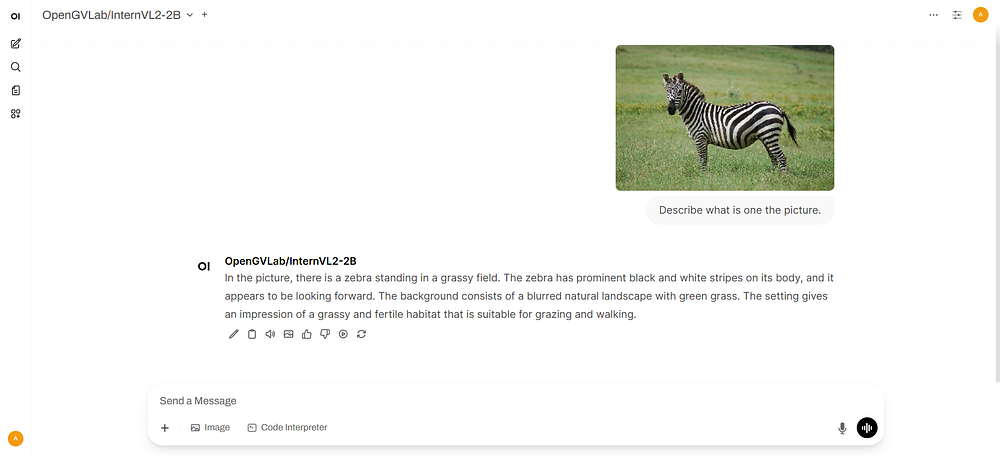
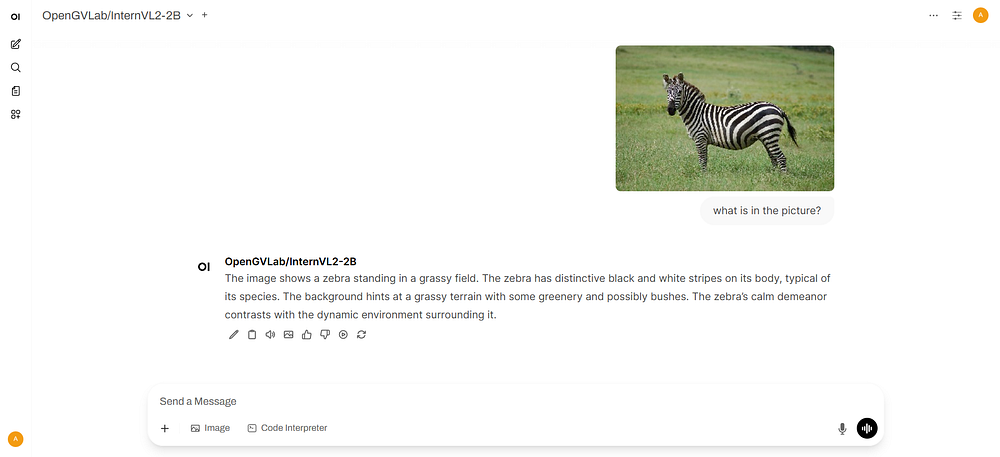
typo fix

diff --git a/demos/integration_with_OpenWebUI/README.md b/demos/integration_with_OpenWebUI/README.md
@@ -241,7 +241,7 @@ python export_model.py text_generation --source_model OpenGVLab/InternVL2-2B --w
 Keep the model server running or restart it. Here is the basic call to check if it works:
 
 ```bash
-curl http://localhost:8000/v3/chat/completions  -H "Content-Type: application/json" -d "{ \"model\": \"OpenGVLab/InternVL2-2B\", \"messages\":[{\"role\": \"user\", \"content\": [{\"type\": \"text\", \"text\": \"Describe what is one the picture.\"},{\"type\": \"image_url\", \"image_url\": {\"url\": \"http://raw.githubusercontent.com/openvinotoolkit/model_server/refs/heads/releases/2025/3/demos/common/static/images/zebra.jpeg\"}}]}], \"max_completion_tokens\": 100}"
+curl http://localhost:8000/v3/chat/completions  -H "Content-Type: application/json" -d "{ \"model\": \"OpenGVLab/InternVL2-2B\", \"messages\":[{\"role\": \"user\", \"content\": [{\"type\": \"text\", \"text\": \"what is in the picture?\"},{\"type\": \"image_url\", \"image_url\": {\"url\": \"http://raw.githubusercontent.com/openvinotoolkit/model_server/refs/heads/releases/2025/3/demos/common/static/images/zebra.jpeg\"}}]}], \"max_completion_tokens\": 100}"
 ```
 
 ### Step 2: Chat with VLM
